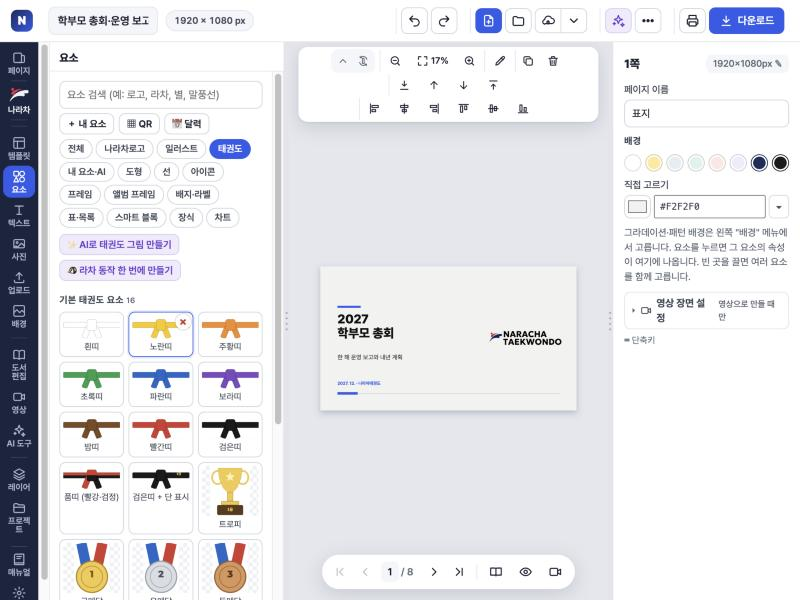
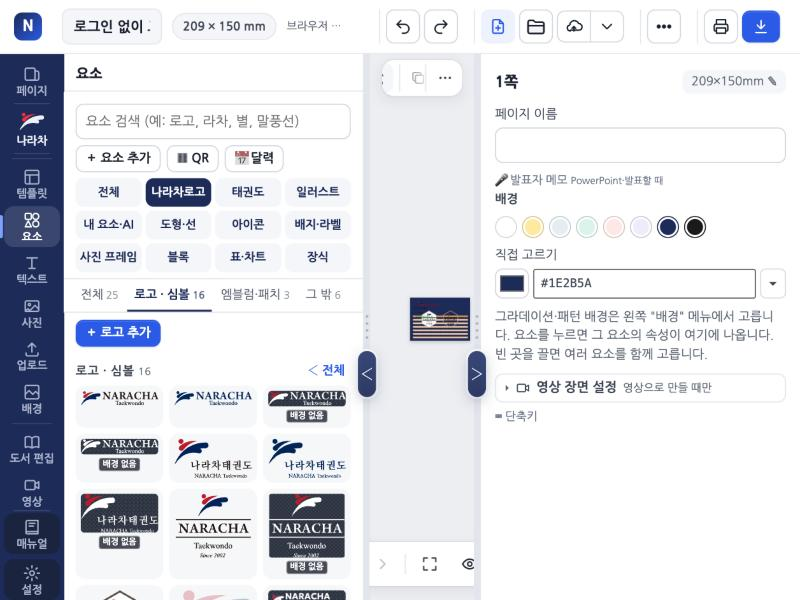
요소 카드 이름 빼기, 배경 없음 배지(그림 아래), 나눔고딕, 대화창 다듬기 (20261126.1450)

diff --git a/manual.js b/manual.js
@@ -110,8 +110,8 @@ window.NC_MANUAL = [
       { stage: '④ 꾸미기·요소', t: '나라차 배경 패턴 · 알림 레터지', d: '세로 메뉴 <b>배경 → 패턴</b> 맨 앞에 나라차 상징 무늬 4가지(<b>나라차 상징</b>·<b>은은한 상징</b>·<b>빨강 상징</b>·<b>남색 상징</b>)가 있습니다 — 팀장님 배너 배경 원본과 같은 색, 쪽 전체에 이어 붙고 「모든 페이지에 적용」도 됩니다. 가정통신문은 템플릿에서 「<b>알림 레터지</b>」를 찾으면 위·아래 NARACHA 라인 띠, 로고, 가운데 은은한 상징이 들어간 A4가 열립니다(주소·전화는 도장 정보로 채워짐).', go: [['tpl', '템플릿 열기']] },
       { stage: '④ 꾸미기·요소', t: '요소 칸 · 2단계 메뉴 · 도형 색', d: '요소의 1단 칸은 4×3 격자 <b>12칸</b>입니다 — 전체 · 나라차로고 · 태권도 · 일러스트 / 내 요소·AI · 도형·선 · 아이콘 · 배지·라벨 / 사진 프레임 · 블록 · 표·차트 · 장식. 칸을 고르면 아래에 <b>밑줄 2단계 메뉴</b>가 한 줄로 나옵니다(예: 도형·선 → 기본 도형·강조 도형·말풍선·화살표·선). 「전체」에서는 묶음마다 몇 개만 보이고 <b>더보기 ›</b>로 그 묶음 전체. <b>도형</b>은 모양마다 하나씩만 보이고 위 <b>색 동그라미 6개</b>(채움·윤곽·노랑·빨강·그라데이션·연한 색)로 색을 고릅니다. 검색칸·칸·2단계 메뉴는 위에 고정돼 목록을 내려도 그대로입니다. 새 요소: 승급 띠 순서표·단/품 배지·품새 이름 라벨, 월계수 화환·로제트 휘장·축 승급/합격 도장·D-day·모집 중·선착순·마감 임박, 승급심사 안내·학부모 안내문 머리·상장/수료증 본문, 차량 운행표·부별 시간표·준비물 체크리스트, 상장 테두리 3종·집중선·삼각 깃발 줄, 그림 아이콘(전화·주소·시간·차량·홈페이지·QR·메일·날짜), 띠 색 원형 사진·증명사진 칸, 태극 문양·발차기 미트·겨루기 경기장, 1등 깃발·별 3개·체험 쿠폰, 이달의 인성 덕목·우수 수련생·대회 결과·휴관 안내 블록, 출석 스티커판·품새 진도표, 벚꽃잎·낙엽·눈송이 흩뿌리기·검은띠 가로 장식, 메달 사진 프레임·휴대폰 화면 틀, 호구·하프톤 점·인성 덕목 배지 12·반원 게이지(출석률)·8강 대진표·자유곡선 덩어리 3종·띠 색 줄(9색).', img: 'm89-elem-subs.jpg',
         marks: [[22, 29, '1단 12칸 (4×3)'], [20.5, 38.2, '2단계 메뉴'], [16, 42.8, '도형 색 고르기'], [31.5, 48.6, '더보기 › = 그 묶음 전체']], go: [['elems', '요소 열기']] },
-      { stage: '④ 꾸미기·요소', t: '요소 빼기·지우기·더하기', d: '요소는 칸별로 나뉩니다 — <b>나라차로고</b>(로고·심볼·엠블럼만) · <b>태권도</b>(띠·상·메달·격파·품새 + 자료실의 태권도 포즈 사진·겨루기·동작 실루엣) · <b>일러스트</b>(인성 캐릭터·인성 장면·라차·단체·지난 그림) · <b>내 요소·AI</b>(내가 올린 그림·AI 그림·내 블록) · 도형·선 …. 요소에 마우스를 올리면 오른쪽 위에 <b>×</b>가 나옵니다: 프로그램·자료실 요소는 <b>목록에서만 빠지고</b>(원본 파일은 그대로) 패널 맨 아래 <b>「🗂 뺀 요소 — 되살리기」</b>에서 다시 살릴 수 있고, 내가 올린 그림·AI 그림은 물어본 뒤 <b>정말 지웁니다</b>. 자료실 묶음 제목 옆 「묶음 빼기」로 한 묶음을 통째로 뺄 수도 있어요(태권도 캐릭터(만화)는 처음부터 빠져 있음). 뺀 목록은 자료실 폴더에 보관돼 두 PC가 같습니다. 「뺀 요소」의 <b>🗑 비우기</b>는 뺀 자료실 그림·내 그림을 정말 지웁니다(구글 드라이브 휴지통 30일 · 자료실 목록 백업을 남김 · 프로그램 요소는 계속 빠진 채). <b>요소 더하기</b>: 넣을 칸(나라차로고·태권도·내 요소·AI)을 고른 뒤 위 <b>＋ 요소 추가</b>(또는 칸 안의 「＋ 로고 추가」·「＋ 태권도 그림 추가」)를 눌러 PNG·SVG·JPG를 고르거나, 파일을 요소 패널에 <b>끌어 놓으면</b> 그 칸에 들어갑니다(자료실에 보관 — 두 PC 모두). 나라차로고 칸에는 팀장님이 주신 원본 — <b>라차 4가지</b>(NARACHA 로고·옆차기·겨루기 준비·높이 차기, 고화질), <b>사각 로고·시범단 로고(사각·육각)·라인 패턴 띠·은은한 상징(워터마크)</b> — 도 있습니다. 시범단 육각 로고는 두 가지입니다(나라차로고 → <b>로고 · 심볼</b> 칸 끝, 사각 로고들 옆) — 카드 왼쪽 위 <b>「흰 바탕」</b>은 육각 안이 흰색으로 채워져 어떤 바탕·사진 위에서도 글자가 또렷하고, <b>「배경 없음」</b>(연한 체크무늬 카드)은 육각 안이 비어 있어 바탕색·사진이 비쳐 보입니다. 이름 옆에 <b>배경 없음</b>이 붙은 흰 로고는 보이게 어두운 체크무늬 위에 보여 줄 뿐, 넣으면 배경 없이 흰 로고만 들어갑니다(어두운 바탕·사진 위에 쓰세요).', img: 'm87-elem-tabs.jpg',
-        marks: [[22, 24.5, '나라차로고 · 태권도 · 내 요소·AI'], [22.8, 53.5, '× 빼기·지우기'], [11, 20.7, '＋ 요소 추가 (지금 칸에)']], go: [['elems', '요소 열기']] },
+      { stage: '④ 꾸미기·요소', t: '요소 빼기·지우기·더하기', d: '요소는 칸별로 나뉩니다 — <b>나라차로고</b>(로고·심볼·엠블럼만) · <b>태권도</b>(띠·상·메달·격파·품새 + 자료실의 태권도 포즈 사진·겨루기·동작 실루엣) · <b>일러스트</b>(인성 캐릭터·인성 장면·라차·단체·지난 그림) · <b>내 요소·AI</b>(내가 올린 그림·AI 그림·내 블록) · 도형·선 …. 요소에 마우스를 올리면 오른쪽 위에 <b>×</b>가 나옵니다: 프로그램·자료실 요소는 <b>목록에서만 빠지고</b>(원본 파일은 그대로) 패널 맨 아래 <b>「🗂 뺀 요소 — 되살리기」</b>에서 다시 살릴 수 있고, 내가 올린 그림·AI 그림은 물어본 뒤 <b>정말 지웁니다</b>. 자료실 묶음 제목 옆 「묶음 빼기」로 한 묶음을 통째로 뺄 수도 있어요(태권도 캐릭터(만화)는 처음부터 빠져 있음). 뺀 목록은 자료실 폴더에 보관돼 두 PC가 같습니다. 「뺀 요소」의 <b>🗑 비우기</b>는 뺀 자료실 그림·내 그림을 정말 지웁니다(구글 드라이브 휴지통 30일 · 자료실 목록 백업을 남김 · 프로그램 요소는 계속 빠진 채). <b>요소 더하기</b>: 넣을 칸(나라차로고·태권도·내 요소·AI)을 고른 뒤 위 <b>＋ 요소 추가</b>(또는 칸 안의 「＋ 로고 추가」·「＋ 태권도 그림 추가」)를 눌러 PNG·SVG·JPG를 고르거나, 파일을 요소 패널에 <b>끌어 놓으면</b> 그 칸에 들어갑니다(자료실에 보관 — 두 PC 모두). 나라차로고 칸에는 팀장님이 주신 원본 — <b>라차 4가지</b>(NARACHA 로고·옆차기·겨루기 준비·높이 차기, 고화질), <b>사각 로고·시범단 로고(사각·육각)·라인 패턴 띠·은은한 상징(워터마크)</b> — 도 있습니다. 시범단 육각 로고는 두 가지입니다(나라차로고 → <b>로고 · 심볼</b> 칸 끝, 사각 로고들 옆) — 그림 아래 작은 배지 <b>「흰 바탕」</b>은 육각 안이 흰색으로 채워져 어떤 바탕·사진 위에서도 글자가 또렷하고, <b>「배경 없음」</b>(연한 체크무늬 카드)은 육각 안이 비어 있어 바탕색·사진이 비쳐 보입니다. 그림 아래 <b>배경 없음</b> 배지가 붙은 흰 로고(어두운 체크무늬 카드)는 보이게 어두운 바탕 위에 보여 줄 뿐, 넣으면 배경 없이 흰 로고만 들어갑니다(어두운 바탕·사진 위에 쓰세요). 요소 카드에는 이름을 적지 않고 그림만 보입니다 — 이름은 마우스를 올리면 나옵니다.', img: 'm87-elem-tabs.jpg',
+        marks: [[22, 32, '나라차로고 · 태권도 · 내 요소·AI'], [15.3, 77, '배경 없음 배지'], [14.6, 26.3, '＋ 요소 추가 (지금 칸에)']], go: [['elems', '요소 열기']] },
       { stage: '④ 꾸미기·요소', t: 'QR·D-day·도장 정보 넣기', d: '<b>요소 → 🔳 QR</b>에 신청서·밴드·유튜브 주소를 넣으면 QR 코드가 들어갑니다(고른 뒤 "QR 내용·색 고치기"). <b>텍스트 → ⏳ D-day 넣기</b>로 "승급심사까지 D-12"를 넣으면 볼 때·뽑을 때 날짜로 저절로 계산됩니다. <b>🏠 도장 정보</b>에 전화·주소를 저장해 두면 템플릿의 010-0000-0000·주소 자리가 자동으로 채워지고, 번호가 바뀌면 문서 안에서 한꺼번에 바뀝니다.', go: [['qr', 'QR 넣기'], ['dday', 'D-day 넣기'], ['dojang', '도장 정보']], img: 'm24-qr.jpg', marks: [[41, 41, '연결할 주소'], [34, 54, 'QR 색'], [63.6, 47, '미리 보기'], [69.9, 73, '넣기']] },
       { stage: '⑤ 내기·출력', t: '내기 (인쇄소·SNS)', d: '<b>다운로드</b>를 누르면 맨 위 <b>어디에 쓰나요?</b>에서 목적을 고릅니다 — 🖨 인쇄소에 보내기 · 💬 카톡·SNS · 🏠 집에서 인쇄 · 📊 발표(PowerPoint). 문서에 맞는 것에 <b>권장</b>이 붙고, JPG·공유용 PDF·벡터 PDF·MP4 등은 <b>모든 파일 형식</b>을 펼쳐 고릅니다. 아직 안 고친 자리(○○·010-0000-0000)가 있으면 정보 칸 맨 위에 ⚠로 알려 주고, 다 받으면 파일 이름이 알림에 나옵니다. 인쇄소에 맡길 땐 <b>인쇄소에 보낼 말</b>을 복사하세요. 도장 프린터로 바로 뽑을 땐 위 막대의 🖨.', img: 'm12-download.jpg',
         marks: [[85.2, 20.9, '어디에 쓰나요 — 목적 4가지'], [85.2, 30, '모든 파일 형식 (펼치기)'], [85.2, 55, '다운로드 정보'], [85.2, 93.3, '다운로드']], go: [['download', '다운로드 열기']] },

diff --git a/app.js b/app.js
@@ -1,7 +1,5 @@
 (function () {
 'use strict';
-/* 화면 글자 또렷하게: Windows이거나 배율 2 미만 화면이면 운영체제 글꼴 (app.css html.sysui) — 창을 다른 모니터로 옮기면 다시 판단 */
-(function sysUI() { const set = () => { const win = /Windows/i.test(navigator.userAgent || ''); document.documentElement.classList.toggle('sysui', win || (window.devicePixelRatio || 1) < 1.5); }; set(); try { matchMedia('(min-resolution: 1.5dppx)').addEventListener('change', set); } catch (e) {} })();
 const $ = s => document.querySelector(s), $$ = s => Array.from(document.querySelectorAll(s));
 const MM = 96 / 25.4;
 const esc = s => String(s == null ? '' : s).replace(/[&<>"']/g, c => ({ '&': '&amp;', '<': '&lt;', '>': '&gt;', '"': '&quot;', "'": '&#39;' }[c]));
@@ -116,6 +114,10 @@ async function saveFileNow() {
 }
 // 두 PC가 같은 문서를 고쳐 갈라졌을 때: 어느 쪽을 고르든 다른 쪽은 "충돌 사본" 파일로 남겨 아무것도 잃지 않음
 /* 확인 창 문구의 '확인: …' / '취소: …' 줄을 이름 붙은 단추 두 개로 (초보에게 '취소 = 내 작업 살리기'가 헷갈림). 시험 도구가 confirm을 바꿔 끼웠으면 그것을 씀 */
+/* 대화창 글 앞의 이모지 빼기 (11/26 팀장님 「대화창을 깔끔하게」): 제목·소제목·상자 제목·단추·작은 글 맨 앞의 그림 글자만(글이 남을 때만 — 그림만 있는 단추·<i> 아이콘 칸은 그대로) */
+const EMO_LEAD = /^\s*(?:[\u{1F000}-\u{1FAFF}\u{2600}-\u{27BF}\u{2B00}-\u{2BFF}\u{2190}-\u{21FF}\u{2300}-\u{23FF}\u{2460}-\u{24FF}\u{25A0}-\u{25FF}\u{3297}\u{3299}][\u{FE0F}\u{200D}\u{1F3FB}-\u{1F3FF}]*)+\s*/u;
+function dlgTidy(root) { (root || document).querySelectorAll('dialog h2, dialog h3, dialog h4, dialog summary, dialog .svh, dialog b, dialog button, dialog small, dialog em, dialog label > span').forEach(h => { if (h.dataset.tidy) return; h.dataset.tidy = 1; const w = document.createTreeWalker(h, NodeFilter.SHOW_TEXT); let t; while ((t = w.nextNode())) { if (!t.textContent.trim()) continue; const v = t.textContent.replace(EMO_LEAD, ''); if (v !== t.textContent && v.trim()) t.textContent = v; break; } }); }
+new MutationObserver(ms => { if (ms.some(m => m.target.closest && m.target.closest('dialog'))) dlgTidy(); }).observe(document.body, { childList: true, subtree: true });
 function confirmBtns(msg) {
   if (!/\[native code\]/.test(String(window.confirm))) return Promise.resolve(window.confirm(msg));
   const lines = String(msg).split('\n'), yes = (lines.find(l => /^확인: /.test(l)) || '확인: 예').slice(4), no = (lines.find(l => /^취소: /.test(l)) || '취소: 아니오').slice(4), body = lines.filter(l => !/^(확인|취소): /.test(l)).join('\n').trim();
@@ -3303,7 +3305,7 @@ async function emptyOff() {
     subs.forEach(k => elOff.delete('sub:' + k)); one.forEach(id => { elOff.delete(id); if (!id.startsWith('lib-')) elOff.add('x:' + id); });
     await saveElOff(); renderElems(); toast(`비웠습니다 — 자료실 그림 ${r.n}개(파일 ${r.files}개)·내 그림 ${mine.length}개를 지웠습니다${builtin.length ? ` · 프로그램 요소 ${builtin.length}개는 계속 빠져 있어요` : ''}`);
   } catch (e) { toast('비우지 못했습니다: ' + e.message, true); } finally { setStatus(''); } }
-function elemCard(it) { const els = it.make(uid, { year: doc.calendar.year || 2027 }); return `<button class="ecard" data-el="${it.id}" title="${esc(it.name)}${it.transp ? ' · 배경 없음' : it.whiteBg ? ' · 흰 바탕' : ''} — 누르면 가운데에, 끌면 원하는 자리에" draggable="true"><i class="edel" data-edel="${it.id}" title="${it.mine || (it.lib && /^ai-/.test(it.lib.id || '')) ? '지우기 (내가 올린·만든 것 — 정말 지움)' : '요소에서 빼기 (맨 아래에서 되살리기)'}">×</i>${it.transp ? '<em class="ebg" title="로고 안이 비어 있어(체크무늬) 바탕색·사진이 비쳐 보입니다 — 흰 바탕이 필요하면 「흰 바탕」 판을 쓰세요">배경 없음</em>' : it.whiteBg ? '<em class="ebg wb" title="로고 안이 흰색으로 채워져 있어 어떤 바탕·사진 위에서도 글자가 또렷합니다">흰 바탕</em>' : ''}<div class="ebox" data-w="${it.w}" data-h="${it.h}">${tmpSheet(it.w, it.h, els, it.dark ? 'repeating-conic-gradient(#3a4150 0 25%, #2a303c 0 50%) 0 0/3mm 3mm' : it.transp ? 'repeating-conic-gradient(#d9dde5 0 25%, #ffffff 0 50%) 0 0/3mm 3mm' : it.cat === 'icon' || it.cat === 'illust' || it.cat === 'naracha' ? 'transparent' : '#ffffff')}</div>${it.cat === 'icon' ? '' : `<span>${esc(it.name)}${it.dark ? '<em class="etag" title="흰색 로고라 보이게 어두운 체크무늬 위에 보여 줍니다 — 넣으면 배경 없이 흰 로고만 들어갑니다 (어두운 바탕·사진 위에 쓰세요)">배경 없음</em>' : ''}</span>`}</button>`; }
+function elemCard(it) { const els = it.make(uid, { year: doc.calendar.year || 2027 }); return `<button class="ecard" data-el="${it.id}" title="${esc(it.name)}${it.transp || it.dark ? ' · 배경 없음' : it.whiteBg ? ' · 흰 바탕' : ''} — 누르면 가운데에, 끌면 원하는 자리에" draggable="true"><i class="edel" data-edel="${it.id}" title="${it.mine || (it.lib && /^ai-/.test(it.lib.id || '')) ? '지우기 (내가 올린·만든 것 — 정말 지움)' : '요소에서 빼기 (맨 아래에서 되살리기)'}">×</i><div class="ebox" data-w="${it.w}" data-h="${it.h}">${tmpSheet(it.w, it.h, els, it.dark ? 'repeating-conic-gradient(#3a4150 0 25%, #2a303c 0 50%) 0 0/3mm 3mm' : it.transp ? 'repeating-conic-gradient(#d9dde5 0 25%, #ffffff 0 50%) 0 0/3mm 3mm' : it.cat === 'icon' || it.cat === 'illust' || it.cat === 'naracha' ? 'transparent' : '#ffffff')}</div>${it.dark ? '<em class="ebg dk" title="흰색 로고라 보이게 어두운 체크무늬 위에 보여 줍니다 — 넣으면 배경 없이 흰 로고만 들어갑니다 (어두운 바탕·사진 위에 쓰세요)">배경 없음</em>' : it.transp ? '<em class="ebg" title="로고 안이 비어 있어(체크무늬) 바탕색·사진이 비쳐 보입니다 — 흰 바탕이 필요하면 「흰 바탕」 판을 쓰세요">배경 없음</em>' : it.whiteBg ? '<em class="ebg wb" title="로고 안이 흰색으로 채워져 있어 어떤 바탕·사진 위에서도 글자가 또렷합니다">흰 바탕</em>' : ''}</button>`; }
 const LIB_ECATS = [['brand', '로고 · 심볼'], ['logo', '로고 (자료실)'], ['emblem', '엠블럼·패치'], ['mascot', '마스코트 라차'], ['mine-el', '내 요소'], ['cartoon', '태권도 캐릭터 (만화)'], ['ai-char', 'AI 캐릭터·사람'], ['ai-sticker', 'AI 스티커'], ['ai-scene', 'AI 배경·장면'], ['ai-photo', 'AI 사진'], ['ai-coloring', 'AI 색칠 도안'], ['ai-icon', 'AI 아이콘'], ['ai-mascot', 'AI 라차'], ['aiimg', 'AI로 만든 그림'], ['pose', '태권도 포즈 (사진)'], ['pair', '겨루기 · 두 사람'], ['silhouette', '동작 실루엣'], ['illust', '태권도 일러스트'], ['belt', '띠·라벨'], ['pattern', '패턴·장식']];
 /* 요소 칸 나누기 (팀장님 11/24 「나라차로고를 뺀 모든 태권도 동작 요소는 '태권도'로, '나라차'는 '나라차로고'로」):
    로고·엠블럼 → 나라차로고(cat 'naracha') · 태권도 동작·포즈·실루엣·라차·띠 → 태권도('tkd') · 패턴 → 장식('deco') · 내가 올린 것·AI 그림(태권도 동작이 아닌 것) → 내 요소·AI('mine') */

diff --git a/app.css b/app.css
@@ -4,14 +4,11 @@
   --ui-accent:#2f5bea; --ui-accent-soft:#e9eefc; --ui-accent-fg:#ffffff; --ui-stage:#e4e7ee; --ui-danger:#d13b3b; --ui-ai:#6b3fd1; --ui-ai-soft:#f0ebfb;
   --brand:#1e2b5a; --r:8px; --sh:0 1px 2px rgba(16,24,40,.06),0 1px 3px rgba(16,24,40,.08);
   --side-w:300px; --insp-w:320px;
-  --font-ui:"Pretendard","Noto Sans KR",-apple-system,"Apple SD Gothic Neo","Malgun Gothic",sans-serif;
+  --font-ui:"Nanum Gothic","나눔고딕","Apple SD Gothic Neo","Malgun Gothic",sans-serif;  /* 11/26 팀장님 「맥·PC 모두 나눔고딕」 — 작은 글자 힌팅이 있어 또렷함(예전 Pretendard 가변 글꼴은 힌팅 없음) */
 }
 *{box-sizing:border-box}
 [hidden]{display:none!important}
 html,body{height:100%}
-/* 11/26 팀장님 「설명 글씨가 다른 프로그램보다 흐릿」: Pretendard 가변 글꼴은 작은 글자 힌팅이 없어 Windows·일반 모니터(배율 2 미만)에서 번져 보임
-   → 그런 화면에서는 운영체제 글꼴(Windows 맑은 고딕 · 맥 애플 SD 산돌고딕 Neo)로 (html.sysui — app.js 맨 앞). 디자인 글꼴은 그대로 */
-html.sysui{--font-ui:"Malgun Gothic","맑은 고딕",-apple-system,BlinkMacSystemFont,"Apple SD Gothic Neo","Segoe UI","Noto Sans KR",sans-serif}
 body{margin:0;background:var(--ui-bg);color:var(--ui-fg);font-family:var(--font-ui);font-size:14px;line-height:1.45;overflow:hidden;-webkit-font-smoothing:auto} /* 2026-11-18: antialiased는 맥에서 글자를 가늘고 흐릿하게 만들어(팀장님 "글자가 모두 흐릿") 기본값으로 */
 button,input,select,textarea{font:inherit;color:inherit}
 :focus-visible{outline:2px solid var(--ui-accent);outline-offset:1px}
@@ -2152,8 +2149,9 @@ dialog.asktext{width:min(480px,92vw)}
 .ecard .ebox{position:relative}.ecard .ebadge{position:absolute;right:4px;bottom:4px;font-style:normal;font-size:10px;font-weight:700;line-height:1;color:#fff;background:rgba(0,0,0,.55);border:1px solid rgba(255,255,255,.35);border-radius:999px;padding:3px 6px;pointer-events:none}
 .ecard .ebox{position:relative}.ecard .ebadge{position:absolute;right:4px;bottom:4px;font-style:normal;font-size:10px;font-weight:700;line-height:1;color:#fff;background:rgba(0,0,0,.55);border:1px solid rgba(255,255,255,.35);border-radius:999px;padding:3px 6px;pointer-events:none}
 .ecard .etag{display:inline-block;margin-left:3px;font-style:normal;font-size:9.5px;font-weight:700;color:#5a4a00;background:#fff3c4;border:1px solid #f0d77a;border-radius:4px;padding:0 3px;vertical-align:1px}
-.ecard .ebg{position:absolute;left:4px;top:4px;z-index:2;font-style:normal;font-size:10px;font-weight:700;line-height:1.5;color:#5a4a00;background:#fff3c4;border:1px solid #f0d77a;border-radius:4px;padding:0 4px;pointer-events:auto}
+.ecard .ebg{display:block;align-self:center;margin:0 auto;font-style:normal;font-size:8.5px;font-weight:700;line-height:1.35;color:#5a4a00;background:#fff3c4;border:1px solid #f0d77a;border-radius:3px;padding:0 3px;letter-spacing:-.02em}
 .ecard .ebg.wb{color:#1E2B5A;background:#fff;border-color:#b9c2d4}
+.ecard .ebg.dk{color:#fff;background:rgba(20,26,40,.78);border-color:rgba(255,255,255,.35)}
 .dlpurp{display:grid;grid-template-columns:1fr 1fr;gap:6px}.dlpurp button{display:flex;align-items:center;gap:6px;padding:8px 9px;border:1.5px solid var(--ui-line,#e2e5eb);border-radius:10px;background:#fff;font-weight:600;font-size:12.5px;text-align:left;position:relative}.dlpurp button i{font-style:normal;font-size:17px}.dlpurp button.on{border-color:var(--ui-accent,#2f5bea);background:var(--ui-accent-soft,#e9eefc)}.dlpurp button em{position:absolute;top:-7px;right:6px;font-style:normal;font-size:9.5px;background:#1f7a45;color:#fff;border-radius:999px;padding:1px 5px}
 .dlcur{margin:6px 0 4px!important}.dlmore{margin:4px 0 8px}.dlmore .dlfmts{margin-top:6px}
 .presmood{display:grid;grid-template-columns:repeat(3,1fr);gap:5px;margin-top:6px}.presmood .pm-b{display:flex;flex-direction:column;align-items:center;gap:3px;padding:5px 3px;border:1.5px solid var(--ui-line,#e2e5eb);border-radius:8px;background:#fff;font-size:11px}.presmood .pm-b.on{border-color:var(--ui-accent,#2f5bea);background:var(--ui-accent-soft,#e9eefc)}.presmood i{display:block;width:44px;height:26px;border-radius:4px;position:relative;border:1px solid rgba(0,0,0,.1)}.presmood i b{position:absolute;left:6px;bottom:5px;width:18px;height:4px;border-radius:2px}
@@ -2295,3 +2293,21 @@ dialog.nd.drive nav .dvnav-end{position:sticky;bottom:-16px;background:var(--ui-
 .fmenu.ctx button{padding:5px 10px;font-size:13px;gap:8px}.fmenu.ctx hr{margin:3px 4px}.fmenu.ctx button .ic{width:15px;height:15px}
 
 .el-text span.nobr{white-space:nowrap}
+
+/* ===== 11/26 팀장님 「대화창을 지저분하지 않고 깔끔하게」 — 모든 대화창 공통 다듬기 =====
+   글자 크기 단계를 줄이고(본문 13.5 · 보조 12.5 · 아주 작은 글도 12px 이상), 회색은 한 가지, 점선 상자는 실선, 제목의 이모지는 뺌(app.js dlgTidy) */
+dialog{font-size:13.5px;line-height:1.6;border-radius:12px}
+dialog .dhead{padding:15px 20px}
+dialog .dhead h2{font-size:16.5px;font-weight:700;letter-spacing:-.01em}
+dialog .dhead h2 small{font-weight:400;font-size:12.5px;color:#667085;margin-left:8px}
+dialog .dbody{padding:18px 22px}
+dialog h3{font-size:13px;letter-spacing:0;color:#344054;margin:18px 0 8px}
+dialog .dbody > h3:first-child, dialog .dbody > :first-child h3:first-child{margin-top:2px}
+dialog small, dialog .hint{font-size:max(12px, .86em);color:#5b6475}
+dialog .hint{line-height:1.6}
+dialog details > summary{font-weight:600;color:#344054}
+dialog [class*="svstep"], dialog .bk-more{border-style:solid!important}
+dialog p{margin-top:0}
+dialog summary:focus{outline:none}
+dialog summary:focus-visible{box-shadow:0 0 0 2px #c7d7fe;border-radius:4px}
+dialog [data-tidy]{text-wrap:pretty}

diff --git a/index.html b/index.html
@@ -16,7 +16,7 @@
 <meta property="og:image" content="https://narachadata.github.io/design/og.png">
 <meta property="og:type" content="website">
 <link rel="stylesheet" href="fonts/fonts.css?v=73bafcd29e">
-<link rel="stylesheet" href="app.css?v=20261126.1438">
+<link rel="stylesheet" href="app.css?v=20261126.1450">
 </head>
 <body>
 <svg width="0" height="0" style="position:absolute" aria-hidden="true"><defs>
@@ -215,38 +215,38 @@
 <style id="pageStyle"></style>
 <div class="toast" id="toast" popover="manual" hidden></div>
 
-<script src="version.js?v=20261126.1438"></script>
-<script src="fonts/fonts.js?v=20261126.1438"></script>
-<script src="fonts/webfonts.js?v=20261126.1438"></script>
+<script src="version.js?v=20261126.1450"></script>
+<script src="fonts/fonts.js?v=20261126.1450"></script>
+<script src="fonts/webfonts.js?v=20261126.1450"></script>
 <script src="assets.js?v=064ae0db4d"></script>
 <script src="assets-brand.js?v=73aa2617a4"></script>
-<script src="defaults.js?v=20261126.1438"></script>
-<script src="ai.js?v=20261126.1438"></script>
-<script src="storage.js?v=20261126.1438"></script>
-<script src="gdrive.js?v=20261126.1438"></script>
-<script src="live.js?v=20261126.1438"></script>
-<script src="lib.js?v=20261126.1438"></script>
-<script src="calendar.js?v=20261126.1438"></script>
-<script src="templates.js?v=20261126.1438"></script>
-<script src="templates2.js?v=20261126.1438"></script>
-<script src="templates3.js?v=20261126.1438"></script>
-<script src="templates4.js?v=20261126.1438"></script>
-<script src="templates5.js?v=20261126.1438"></script>
-<script src="templates6.js?v=20261126.1438"></script>
-<script src="templates7.js?v=20261126.1438"></script>
-<script src="effects.js?v=20261126.1438"></script>
-<script src="imgedit.js?v=20261126.1438"></script>
-<script src="elements.js?v=20261126.1438"></script>
-<script src="news.js?v=20261126.1438"></script>
-<script src="astream.js?v=20261126.1438"></script>
-<script src="media.js?v=20261126.1438"></script>
-<script src="vtemplates.js?v=20261126.1438"></script>
-<script src="video.js?v=20261126.1438"></script>
-<script src="manual.js?v=20261126.1438"></script>
-<script src="aichat.js?v=20261126.1438"></script>
-<script src="aistudio.js?v=20261126.1438"></script>
-<script src="book.js?v=20261126.1438"></script>
-<script src="import.js?v=20261126.1438"></script>
-<script src="app.js?v=20261126.1438"></script>
+<script src="defaults.js?v=20261126.1450"></script>
+<script src="ai.js?v=20261126.1450"></script>
+<script src="storage.js?v=20261126.1450"></script>
+<script src="gdrive.js?v=20261126.1450"></script>
+<script src="live.js?v=20261126.1450"></script>
+<script src="lib.js?v=20261126.1450"></script>
+<script src="calendar.js?v=20261126.1450"></script>
+<script src="templates.js?v=20261126.1450"></script>
+<script src="templates2.js?v=20261126.1450"></script>
+<script src="templates3.js?v=20261126.1450"></script>
+<script src="templates4.js?v=20261126.1450"></script>
+<script src="templates5.js?v=20261126.1450"></script>
+<script src="templates6.js?v=20261126.1450"></script>
+<script src="templates7.js?v=20261126.1450"></script>
+<script src="effects.js?v=20261126.1450"></script>
+<script src="imgedit.js?v=20261126.1450"></script>
+<script src="elements.js?v=20261126.1450"></script>
+<script src="news.js?v=20261126.1450"></script>
+<script src="astream.js?v=20261126.1450"></script>
+<script src="media.js?v=20261126.1450"></script>
+<script src="vtemplates.js?v=20261126.1450"></script>
+<script src="video.js?v=20261126.1450"></script>
+<script src="manual.js?v=20261126.1450"></script>
+<script src="aichat.js?v=20261126.1450"></script>
+<script src="aistudio.js?v=20261126.1450"></script>
+<script src="book.js?v=20261126.1450"></script>
+<script src="import.js?v=20261126.1450"></script>
+<script src="app.js?v=20261126.1450"></script>
 </body>
 </html>

diff --git a/version.js b/version.js
@@ -1,1 +1,1 @@
-window.NARACAL_VER = "20261126.1438";
+window.NARACAL_VER = "20261126.1450";

diff --git a/작업인계.md b/작업인계.md
@@ -2104,3 +2104,10 @@
 - **실시간 점검**: 같은 브라우저 두 탭(BroadcastChannel) — 고친 것 즉시(0ms) 반영, 상대 마우스 포인터·PC 이름 보임. 다른 PC 사이는 Firebase 설정·로그인이 있어야 함(위 막대 초록 점 「함께」에 마우스 → 「이 브라우저 탭끼리만」이면 Firebase 미설정). CSP는 firebaseapp·firebaseio·gstatic 모두 허용 확인. 두 PC 실제 확인은 팀장님.
 - **엠블럼·패치**(팀장님 「더보기에 육각 패치가 안 나옴」): 시범단 로고 사각·육각 두 판은 sub 'emblem'(엠블럼·패치 칸), 사각 로고는 로고·심볼.
 - **화면 글꼴**(팀장님 「설명 글씨가 다른 프로그램보다 흐릿」): Pretendard 가변 글꼴은 힌팅이 없어 Windows·배율 2 미만 화면에서 작은 글자가 번짐 → 그런 화면이면 `html.sysui`(app.js 맨 앞, 모니터 옮기면 다시)로 맑은 고딕/애플 SD 산돌고딕 Neo. 맥 레티나는 그대로 Pretendard. 디자인 글꼴·캔버스 위 표시는 그대로.
+
+## 2026-11-26 (15) — 요소 카드 이름 빼기 · 배경 없음 배지 · 나눔고딕 · 대화창 다듬기 (팀장님)
+- 요소 카드 아래 이름 글을 모두 뺌(그림만, 이름은 마우스 풍선 title). `elemCard`.
+- 「배경 없음」·「흰 바탕」 배지: 흰 로고(it.dark — 어두운 체크무늬 카드, 가로 로고 흰색·한 색 등)에도. 처음엔 그림 위 모서리에 얹었더니 가로 로고를 가림(팀장님 두 번 지적) → **그림 아래 작은 줄**(8.5px, `.ebg`)로 — 겹침 0 확인.
+- 화면 글꼴: 맥·PC 모두 **나눔고딕**(`--font-ui`, fonts/NanumGothic*.woff2 — 원본 TTF에 힌팅 cvt·fpgm·prep 있음). 바로 앞에 넣었던 Windows·저배율만 운영체제 글꼴(html.sysui)은 지움. 나눔고딕은 400·700·800뿐이라 500→보통, 600→굵게로 보임.
+- 대화창 공통 다듬기(app.css 끝 블록 + app.js `dlgTidy`): 글자 단계 정리(본문 13.5 · 보조 12.5 · 작은 글 12px 이상, 회색 한 가지), 제목 굵기 700, 점선 상자 → 실선, 접는 제목 포커스 테두리 부드럽게, **대화창 제목·상자 제목·단추·작은 글 맨 앞 이모지 뺌**(글이 남을 때만, `<i>` 아이콘 칸은 그대로). 저장 설정·설정 창 확인.
+- 매뉴얼 m87 그림 다시 찍음(나라차로고 → 로고 · 심볼, 배지 보임), 글·번호 위치 고침.
